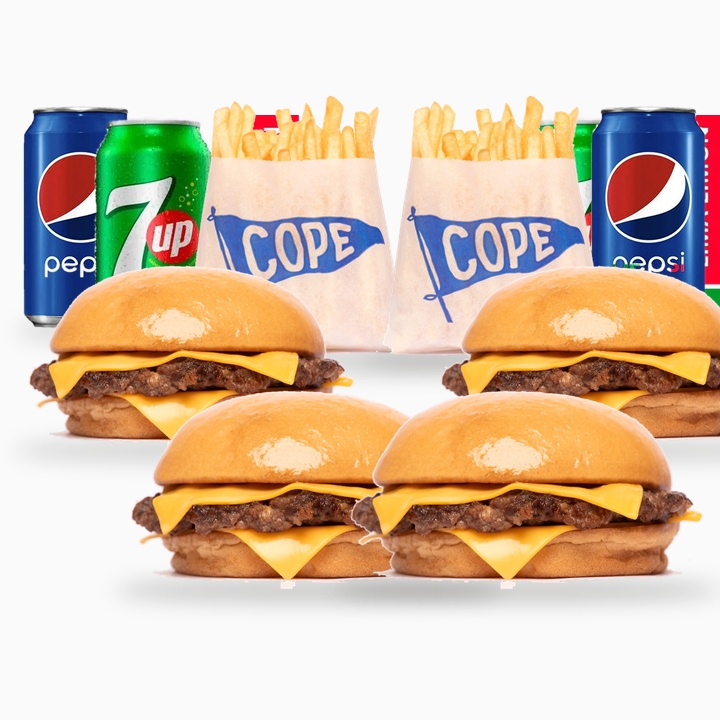
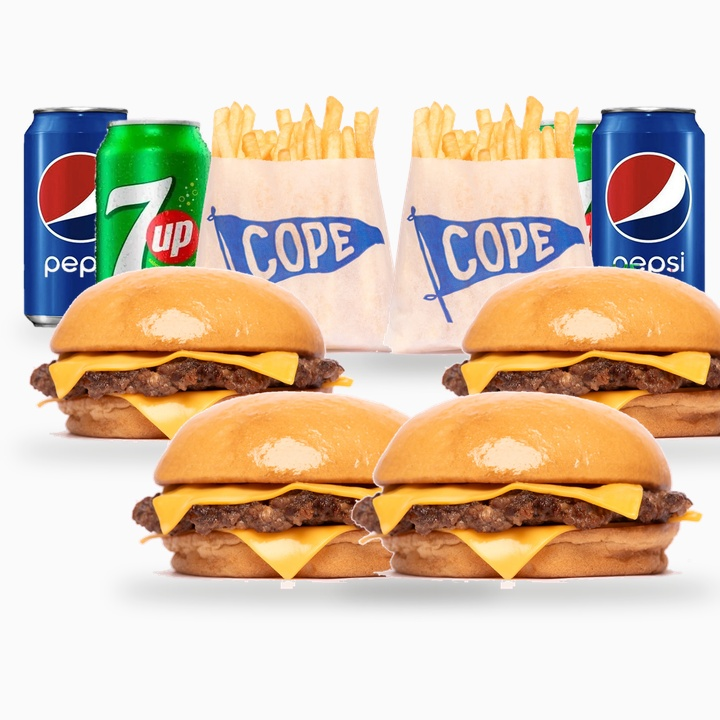
fix(media): crop right-side label off 7up.webp cleanly

Changed region(s): [[0.9472, 0.1528, 1.0, 0.4278], [0.3361, 0.1528, 0.4278, 0.1833], [0.9167, 0.3667, 0.9472, 0.3972]]

diff --git a/generate_5_combos_720.py b/generate_5_combos_720.py
@@ -9,8 +9,11 @@ ARTIFACTS_DIR = r"C:\Users\magak\.gemini\antigravity\brain\cc8295bc-ccc8-461c-87
 def remove_white_bg(img_path, thresh=14, clean_bottom=True):
     img = Image.open(img_path).convert("RGBA")
     w, h = img.size
-    # Recortar 8px de borde por si la foto original tiene marco lateral (ej. 7up.webp)
-    if w > 40 and h > 40:
+    # Recortar bordes por si la foto original tiene marco/etiqueta lateral (ej. 7up.webp)
+    if '7up' in os.path.basename(img_path).lower() and w > 100:
+        img = img.crop((8, 8, int(w * 0.74), h - 8))
+        w, h = img.size
+    elif w > 40 and h > 40:
         img = img.crop((8, 8, w - 8, h - 8))
         w, h = img.size
     sentinel = (255, 0, 255, 0)
